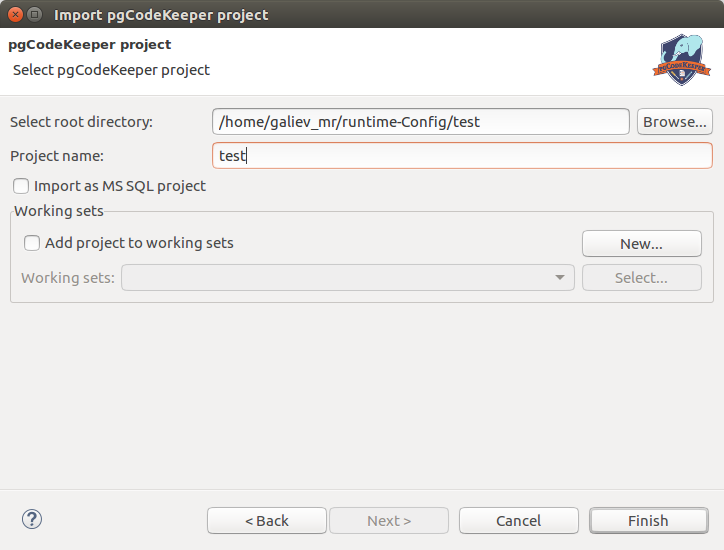
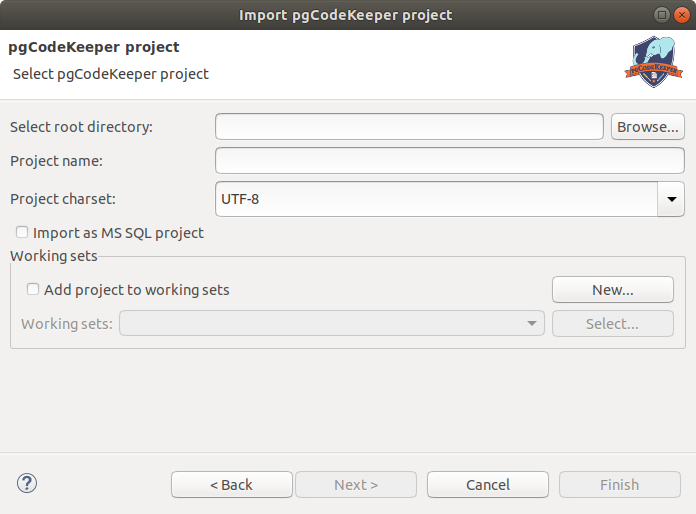
version 5.9.9

diff --git a/docs/conf.py b/docs/conf.py
@@ -53,7 +53,7 @@ copyright = u'2016, pgCodeKeeper'
 # The short X.Y version.
 version = '5.9'
 # The full version, including alpha/beta/rc tags.
-release = '5.9.7'
+release = '5.9.9'
 
 # The language for content autogenerated by Sphinx. Refer to documentation
 # for a list of supported languages.

diff --git a/docs/preferences.rst b/docs/preferences.rst
@@ -122,6 +122,7 @@
 
 На странице настроек **pgCodeKeeper -> SQL Editor / Редактор SQL** Вы можете настроить параметры редактора SQL.
 
+- **Disable parser for files larger than (lines): / Отключить парсер для файлов больше чем (строки):** – позволяет выбрать размер файла, для которого отключается сборщик pgCodeKeeper. Это ускоряет открытие и работу с файлом, но отключает поиск ошибок и ссылок на объекты внутри этого файла. Значение равное 0 отключает данное поведение.
 - **Bracket highlight / Подсветка скобок** – включает подсветку скобок в одном из режимов.
 - **Single bracket / Одна скобка** – при выборе скобки, подсвечивает парную скобку.
 - **Both brackets / Обе скобки** – при выборе скобки, подсвечивает текущую и парную скобку.

diff --git a/docs/import_project.rst b/docs/import_project.rst
@@ -17,7 +17,7 @@
 
 .. image:: ../images/import_project_dialog.png
 
-3. Укажите путь до директории со структурой проекта pgCodeKeeper и введите имя проекта.
+3. Укажите путь до директории со структурой проекта pgCodeKeeper, введите имя проекта и выберите его кодировку.
 4. Если импортируемый проект для MS SQL, то необходимо выбрать соответствующую опцию.
 5. Для добавления проекта в рабочую область, можно выбрать соответствующую опцию.
 6. Нажмите **Finish**.
